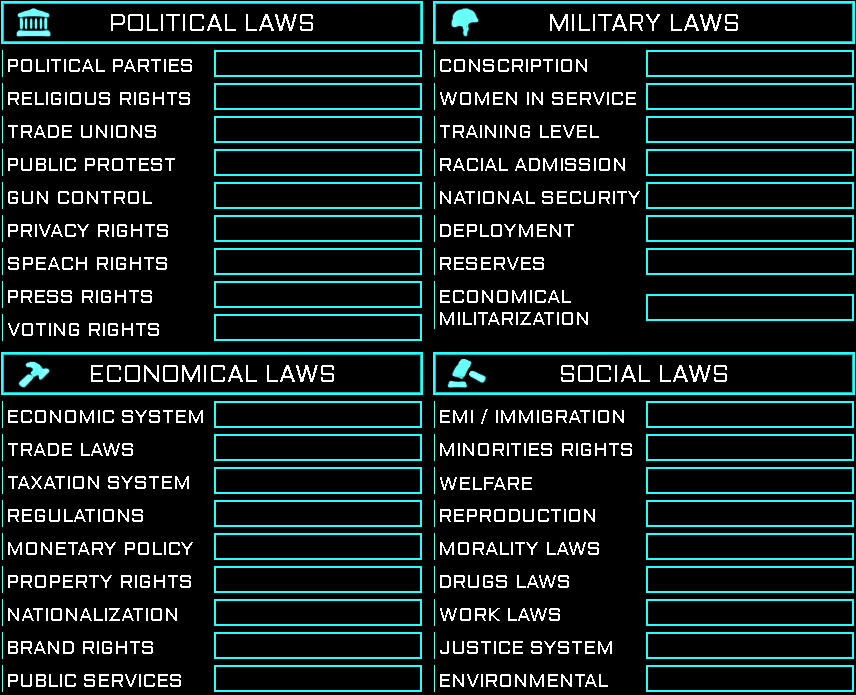
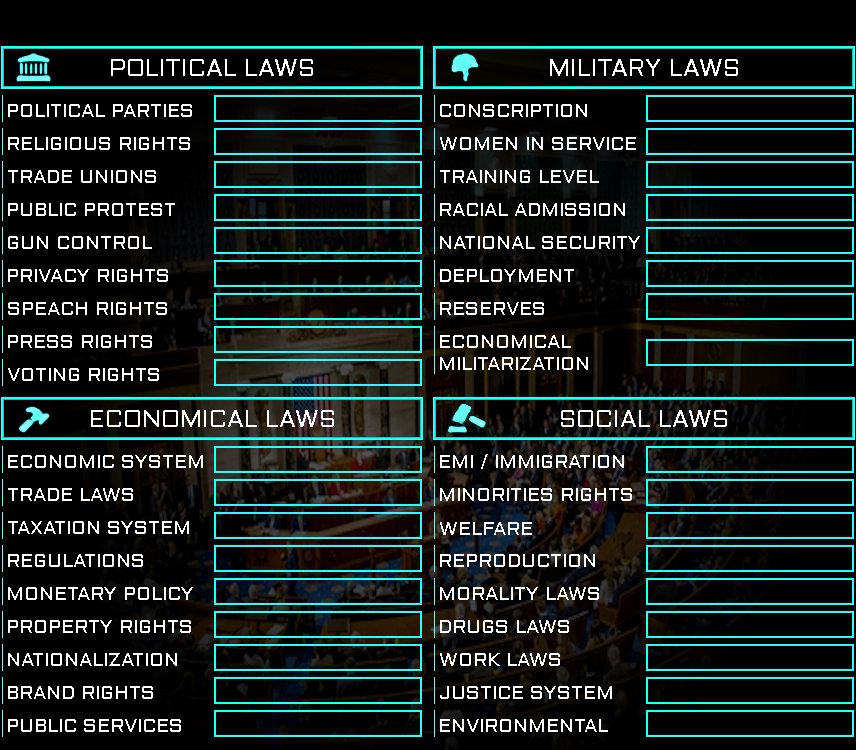
v0.040 	modified:   MenuManager.py 	modified:   __pycache__/MenuManager.cpython-311.pyc 	modified:   gfx/Interface/economic_overview/economic_overview_background.png 	modified:   gfx/Interface/game_HUD/country_laws_background.png 	modified:   gfx/Interface/game_HUD/country_overview.png

diff --git a/MenuManager.py b/MenuManager.py
@@ -2644,10 +2644,8 @@ class Clock_UI:
 				self.current_day += 1
 				self.week += 1
 				if self.week >= 7:
-					self.PlayerCountry.inflation = random.random()
 					self.PlayerCountry.weekly_inflation_data.append(self.PlayerCountry.inflation)
 
-					self.PlayerCountry.country_GDP = random.randrange(8_550_000_000_000, 10_550_000_000_000, 100_550_000)
 					self.PlayerCountry.weekly_country_GDP_data.append(self.PlayerCountry.country_GDP)
 
 					debt_to_gdp = round((self.PlayerCountry.debt/self.PlayerCountry.country_GDP)*100, 2)
@@ -2660,6 +2658,13 @@ class Clock_UI:
 					if self.current_month == 13:
 						self.current_month = 1
 						self.current_year += 1
+
+						self.PlayerCountry.weekly_inflation_data = [self.PlayerCountry.inflation]
+
+						self.PlayerCountry.weekly_country_GDP_data = [self.PlayerCountry.country_GDP]
+
+						debt_to_gdp = round((self.PlayerCountry.debt/self.PlayerCountry.country_GDP)*100, 2)
+						self.PlayerCountry.weekly_debt_to_gdp_data = [debt_to_gdp]					
 
 	def draw(self, screen):
 		screen.blit(self.top_bar_right_background, (self.screen_width - self.top_bar_right_background.get_width(), 0))
@@ -3139,7 +3144,7 @@ class Country_Overview:
 
 		if self.is_menu_open == True:
 			self.is_touching_cicle_rects = False
-			if mouse_rect[1] - self.country_overview_position[1] > 308 * self.factor_y and mouse_rect[1] - self.country_overview_position[1] < 475 * self.factor_y:
+			if mouse_rect[1] - self.country_overview_position[1] > 370 * self.factor_y and mouse_rect[1] - self.country_overview_position[1] < 537 * self.factor_y:
 				if  mouse_rect[0] > 60 * self.factor_x and  mouse_rect[0] < 227 * self.factor_x:
 					for index, rect in enumerate(self.politics_cicle_rects):
 						if GenericUtilitys.polygon_intersects_rectangle(rect, mouse_rect):
@@ -3507,33 +3512,33 @@ class Country_Overview:
 
 			# GOVERNMENT
 			government_name_text = self.huge_scalable_font.render(self.PlayerCountry.country_government, True, (255, 255, 255))
-			text_position = (12 * self.factor_x, 512 * self.factor_y + self.country_overview_position[1])	
+			text_position = (12 * self.factor_x, 574 * self.factor_y + self.country_overview_position[1])	
 			
 			if government_name_text.get_width() > 250:
 				government_name_text = self.big_scalable_font.render(self.PlayerCountry.country_government, True, (255, 255, 255))	
-				text_position = (12 * self.factor_x, 512 * self.factor_y + self.country_overview_position[1])
+				text_position = (12 * self.factor_x, 574 * self.factor_y + self.country_overview_position[1])
 				if government_name_text.get_width() > 250:	
 					government_name_text = self.medium_scalable_font.render(self.PlayerCountry.country_government, True, (255, 255, 255))	
-					text_position = (12 * self.factor_x, 512 * self.factor_y + self.country_overview_position[1])					
+					text_position = (12 * self.factor_x, 574 * self.factor_y + self.country_overview_position[1])					
 
 			screen.blit(government_name_text, text_position)	
 
 			# RULING PARTY
 			ruling_party_name_text = self.huge_scalable_font.render(self.PlayerCountry.country_ruling_party, True, (255, 255, 255))
-			text_position = (299 * self.factor_x, 512 * self.factor_y + self.country_overview_position[1])	
+			text_position = (299 * self.factor_x, 574 * self.factor_y + self.country_overview_position[1])	
 
 			if ruling_party_name_text.get_width() > 250:
 				ruling_party_name_text = self.big_scalable_font.render(self.PlayerCountry.country_ruling_party, True, (255, 255, 255))	
-				text_position = (299 * self.factor_x, 512 * self.factor_y + self.country_overview_position[1])
+				text_position = (299 * self.factor_x, 574 * self.factor_y + self.country_overview_position[1])
 				if ruling_party_name_text.get_width() > 250:
 					ruling_party_name_text = self.medium_scalable_font.render(self.PlayerCountry.country_ruling_party, True, (255, 255, 255))	
-					text_position = (299 * self.factor_x, 512 * self.factor_y + self.country_overview_position[1])										
+					text_position = (299 * self.factor_x, 574 * self.factor_y + self.country_overview_position[1])										
 
 			screen.blit(ruling_party_name_text, text_position)
 
 			# ELECTIONS
 			elections_text = self.huge_scalable_font.render(self.PlayerCountry.country_elections, True, (255, 255, 255))
-			text_position = (586 * self.factor_x, 512 * self.factor_y + self.country_overview_position[1])	
+			text_position = (586 * self.factor_x, 574 * self.factor_y + self.country_overview_position[1])	
 			screen.blit(elections_text, text_position)	
 
 
@@ -3541,7 +3546,7 @@ class Country_Overview:
 			# POPULARITY CIRCLES
 
 			# POLITICS
-			chart_position = (143 * self.factor_x, 391 * self.factor_y + self.country_overview_position[1]) 
+			chart_position = (143 * self.factor_x, 453 * self.factor_y + self.country_overview_position[1]) 
 			chart_radius = 80 * self.factor_y
 
 			self.politics_cicle_rects = GenericUtilitys.draw_pie_chart(screen, chart_position, chart_radius, self.politics_popularity, self.politics_segment_colors)	
@@ -3549,7 +3554,7 @@ class Country_Overview:
 			screen.blit(self.popularity_circle_overlay, (chart_position[0]-85 * self.factor_x, chart_position[1]-85 * self.factor_y))
 
 			# CULTURE
-			chart_position = (433 * self.factor_x, 391 * self.factor_y + self.country_overview_position[1]) 
+			chart_position = (433 * self.factor_x, 453 * self.factor_y + self.country_overview_position[1]) 
 			chart_radius = 80 * self.factor_y
 
 			rects_info = GenericUtilitys.draw_pie_chart(screen, chart_position, chart_radius, self.culture_popularity, self.culture_segment_colors)		
@@ -3558,7 +3563,7 @@ class Country_Overview:
 			screen.blit(self.popularity_circle_overlay, (chart_position[0]-85 * self.factor_x, chart_position[1]-85 * self.factor_y))			
 
 			# RELIGION
-			chart_position = (720 * self.factor_x, 391 * self.factor_y + self.country_overview_position[1]) 
+			chart_position = (720 * self.factor_x, 453 * self.factor_y + self.country_overview_position[1]) 
 			chart_radius = 80 * self.factor_y  
 
 			rects_info = GenericUtilitys.draw_pie_chart(screen, chart_position, chart_radius, self.religion_popularity, self.religion_segment_colors)
@@ -4035,7 +4040,7 @@ class Laws_Menu:
 		law_button_height = 27 * self.factor_y		
 
 		x_offset = 15
-		y_offset = 15 + 158
+		y_offset = 60 + 158
 
 		### FIRST ROW
 		self.first_row_law_button_y_offset_1 = (50 + y_offset) * self.factor_y
@@ -4549,6 +4554,64 @@ class Finances_Menu:
 			else:
 				self.pygame.draw.line(screen, (255,0,0), graph_dots[0], (graph_dots[0][0], (441 + 158) * self.factor_y), 3)
 
+			# BUDGET
+				
+			# EXPENDITURES
+			expenses = self.PlayerCountry.expenses
+
+			if abs(expenses) < 1e6:
+				formatted_expenses = f"${expenses:,.3f}"
+			elif abs(expenses) < 1e9:
+				formatted_expenses = f"${expenses / 1e6:.3f} M"
+			elif abs(expenses) < 1e12:
+				formatted_expenses = f"${expenses / 1e9:.3f} B"
+			elif abs(expenses) < 1e15:
+				formatted_expenses = f"${expenses / 1e12:.3f} T"
+			else:
+				formatted_expenses = f"${expenses:.3f}"
+
+			expenses_text_render = self.small_scalable_font.render(formatted_expenses, False, (255,255,255))	
+			screen.blit(expenses_text_render, (519 * self.factor_x, 738 * self.factor_y + 158 * self.factor_y))
+
+			# REVENUE
+			income = self.PlayerCountry.income
+
+			if abs(income) < 1e6:
+				formatted_income = f"${income:,.3f}"
+			elif abs(income) < 1e9:
+				formatted_income = f"${income / 1e6:.3f} M"
+			elif abs(income) < 1e12:
+				formatted_income = f"${income / 1e9:.3f} B"
+			elif abs(income) < 1e15:
+				formatted_income = f"${income / 1e12:.3f} T"
+			else:
+				formatted_income = f"${income:.3f}"
+
+			income_text_render = self.small_scalable_font.render(formatted_income, False, (255,255,255))	
+			screen.blit(income_text_render, (720 * self.factor_x, 738 * self.factor_y + 158 * self.factor_y))			
+
+
+			# DIFFERENCE
+
+			difference = income - expenses
+
+			if abs(difference) < 1e6:
+				formatted_difference = f"${difference:,.3f}"
+			elif abs(difference) < 1e9:
+				formatted_difference = f"${difference / 1e6:.3f} M"
+			elif abs(difference) < 1e12:
+				formatted_difference = f"${difference / 1e9:.3f} B"
+			elif abs(difference) < 1e15:
+				formatted_difference = f"${difference / 1e12:.3f} T"
+			else:
+				formatted_difference = f"${difference:.3f}"
+
+			if income > expenses:
+				difference_text_render = self.medium_scalable_font.render(formatted_difference, False, (0,255,0))
+			else:	
+				difference_text_render = self.medium_scalable_font.render(formatted_difference, False, (255,0,0))
+
+			screen.blit(difference_text_render, (641 * self.factor_x - difference_text_render.get_width()/2, 597 * self.factor_y + 158 * self.factor_y - difference_text_render.get_height()/2))
 			#---------------------------------------------------------------------------------------------------------------------------------#	
 
 		if self.highlight_button == True or self.is_menu_open == True:
